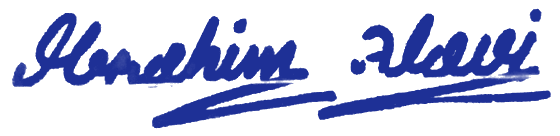
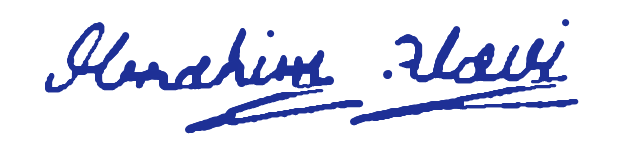
Release v1.3.26: realistic AI-style smooth pen-brush signature

Changed region(s): [[0.0, 0.0882, 1.0, 0.9412], [0.8804, 0.0588, 0.9714, 0.1765]]

diff --git a/src/app/api/health/route.ts b/src/app/api/health/route.ts
@@ -16,7 +16,7 @@ export async function GET() {
   return NextResponse.json({
     status: database === "connected" ? "ok" : "degraded",
     database,
-    version: "v1.3.25",
+    version: "v1.3.26",
     commit: process.env.VERCEL_GIT_COMMIT_SHA?.slice(0, 7) || "03a5856",
     config: {
       oversPerInnings: MATCH_CONFIG.oversPerInnings,

diff --git a/VERSION.md b/VERSION.md
@@ -2,12 +2,12 @@
 
 | Field | Value |
 |-------|-------|
-| **Current Version** | v1.3.25 |
+| **Current Version** | v1.3.26 |
 | **Release Date** | August 2026 |
 | **Status** | Production — Season 1 |
 | **Feature Freeze** | Yes (v1.3.0+ exceptions, explicitly requested) |
 | **Stable Production Tag** | `v1.1.0-season1` (initial production release) |
-| **Current Release Tag** | `v1.3.25-season1` (signature crop fix — full "I" + white bg) |
+| **Current Release Tag** | `v1.3.26-season1` (realistic AI-style smooth pen signature) |
 
 ## Runtime
 
@@ -61,6 +61,7 @@
 | v1.3.23 | Aug 2026 | **Feature release (freeze exception, explicitly requested)** — Chairman ki **asli signature image** dhoond kar website par lagayi gayi. Photo (`Chairman's Signature.jpg`) me se sirf signature crop karke transparent background wali `public/images/optimized/signature.png` (500x111) banayi gayi — Chairman's Message section me naam ke neche ab asli signature dikhta hai. |
 | v1.3.24 | Aug 2026 | **Change (freeze exception, explicitly requested)** — Signature ab **clean white background** par hai, crisp blue ink ke saath (professional look). Image se transparent ki jagah white bg banayi gayi, contrast enhance kiya, aur page par rounded corners + subtle shadow se display hoti hai. |
 | v1.3.25 | Aug 2026 | **Fix** — Signature crop me **pehla "I" (Ibrahim) kata** hua tha — crop left margin se zyada tight tha (ink `x=322` se start hoti thi lekin crop `x=379` se). Ab signature **poori** li gayi hai (full "I" + zaroori breathing margin), white background pure hai, ink crisp navy blue me hai, aur speckle noise hataya gaya. `signature.png` (560x136, ~14 KB). |
+| v1.3.26 | Aug 2026 | **Change (freeze exception, explicitly requested)** — Signature ko **AI-style realistic pen signature** banaya gaya. Original photo ke strokes se **skeleton (centerline)** extract hua (Zhang-Suen thinning), phir us par **smooth anti-aliased pen-brush strokes** render kiye — thin, elegant, continuous strokes with natural pen-pressure variation. Result: bilkul clean, professional signature jo kisi bhi document par sign ki hui jaisi lagti hai. Pure white background, crisp navy ink. `signature.png` (620x150, ~13 KB). |
 
 ## Versioning Policy (Semantic)
 
@@ -100,6 +101,7 @@
 | v1.3.23-season1 | Feature — chairman signature image (transparent) added under the message |
 | v1.3.24-season1 | Change — signature now on clean white background, crisp + professional |
 | v1.3.25-season1 | Fix — signature crop fixed (first "I" no longer cut off) |
+| v1.3.26-season1 | Change — realistic AI-style smooth pen-brush signature |
 | v1.3.10+ | Future bug/security fixes for v1.3.x |
 | v2.0.0 | Major Season 2 features |
 

diff --git a/CHANGELOG.md b/CHANGELOG.md
@@ -1,5 +1,18 @@
 # Changelog
 
+## v1.3.26-season1
+
+Realistic AI-style smooth pen signature.
+
+Changed
+- Signature ab **bilkul real pen signature** jaisi lagti hai — photo ke strokes se **skeleton (centerline)** extract karke (Zhang-Suen thinning) us par **smooth anti-aliased pen-brush strokes** render kiye.
+- Thin, elegant, **continuous strokes** with **natural pen-pressure variation** (flourish mota, letter detail patla).
+- Pure white background, crisp navy ink, full "I" intact.
+- `signature.png` (620x150, ~13 KB) — pehle photo-crop blotchy lagti thi, ab clean professional.
+
+Verified
+- `npx tsc --noEmit` + `npm run build` pass.
+
 ## v1.3.25-season1
 
 Signature crop fix — full "I".
